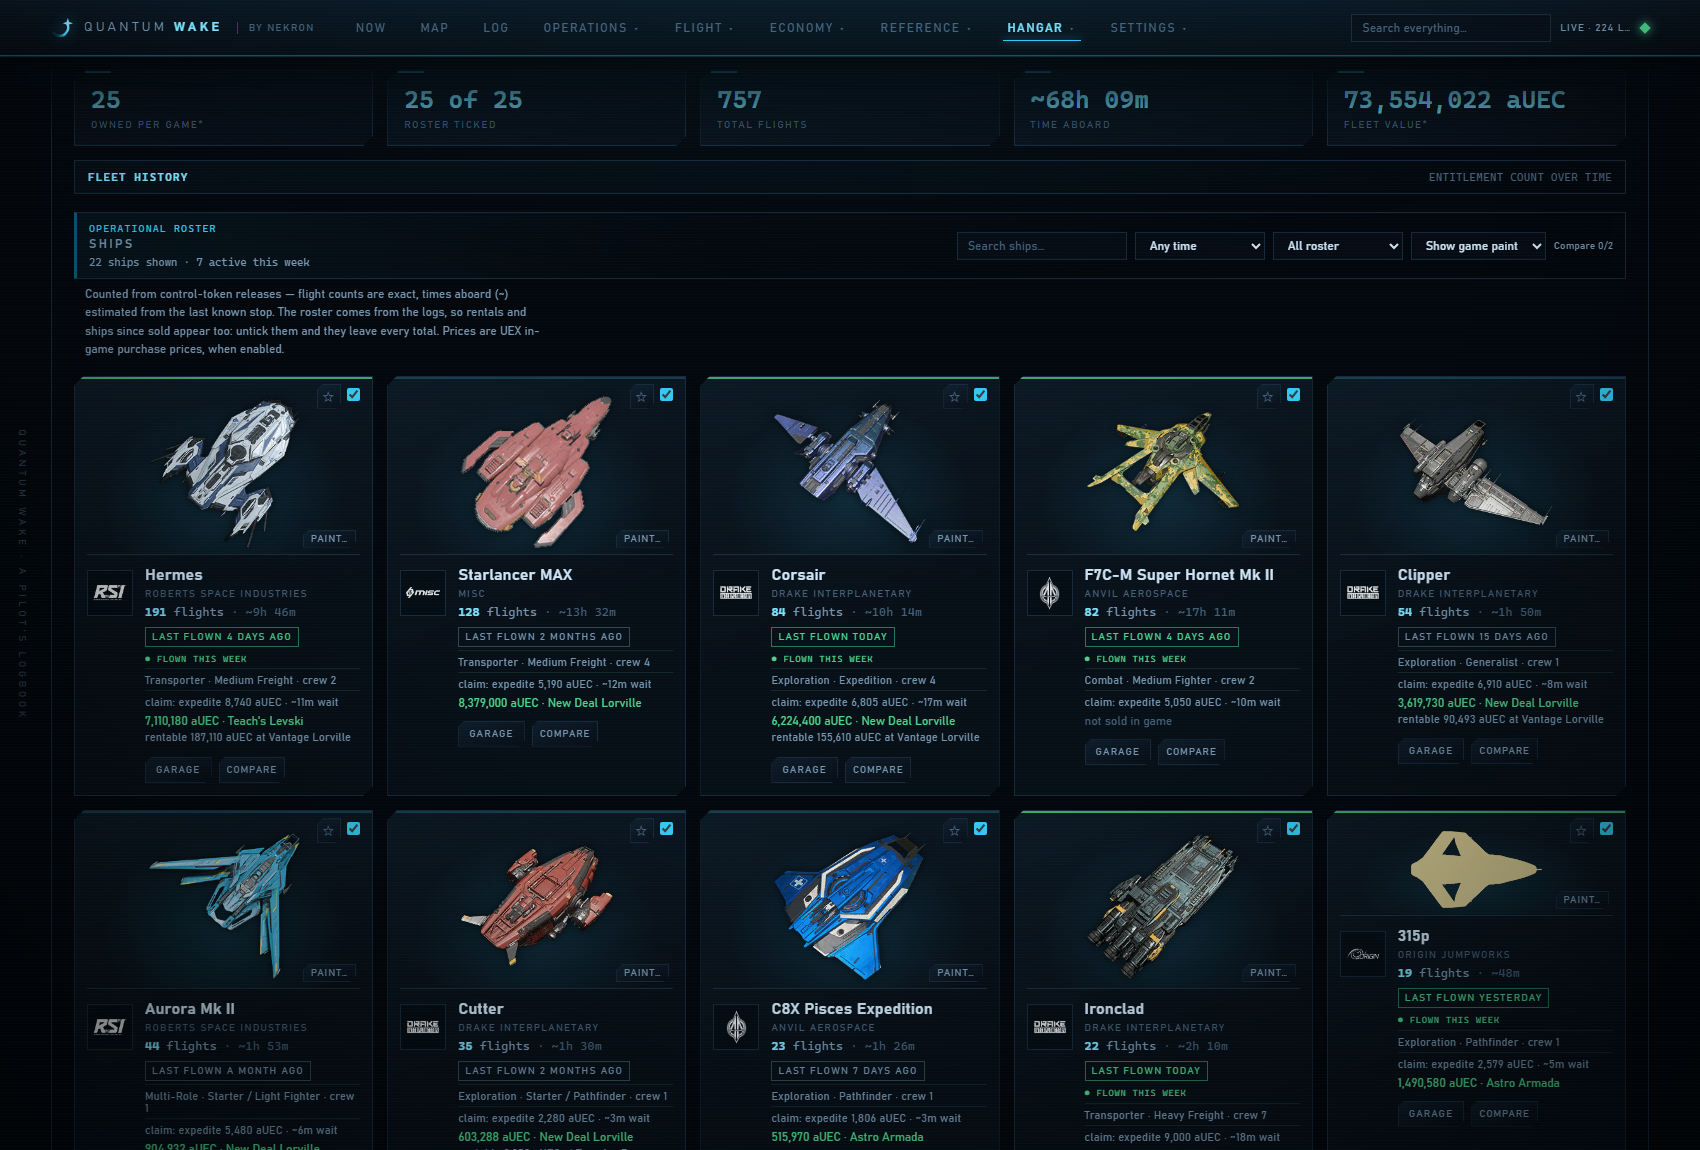
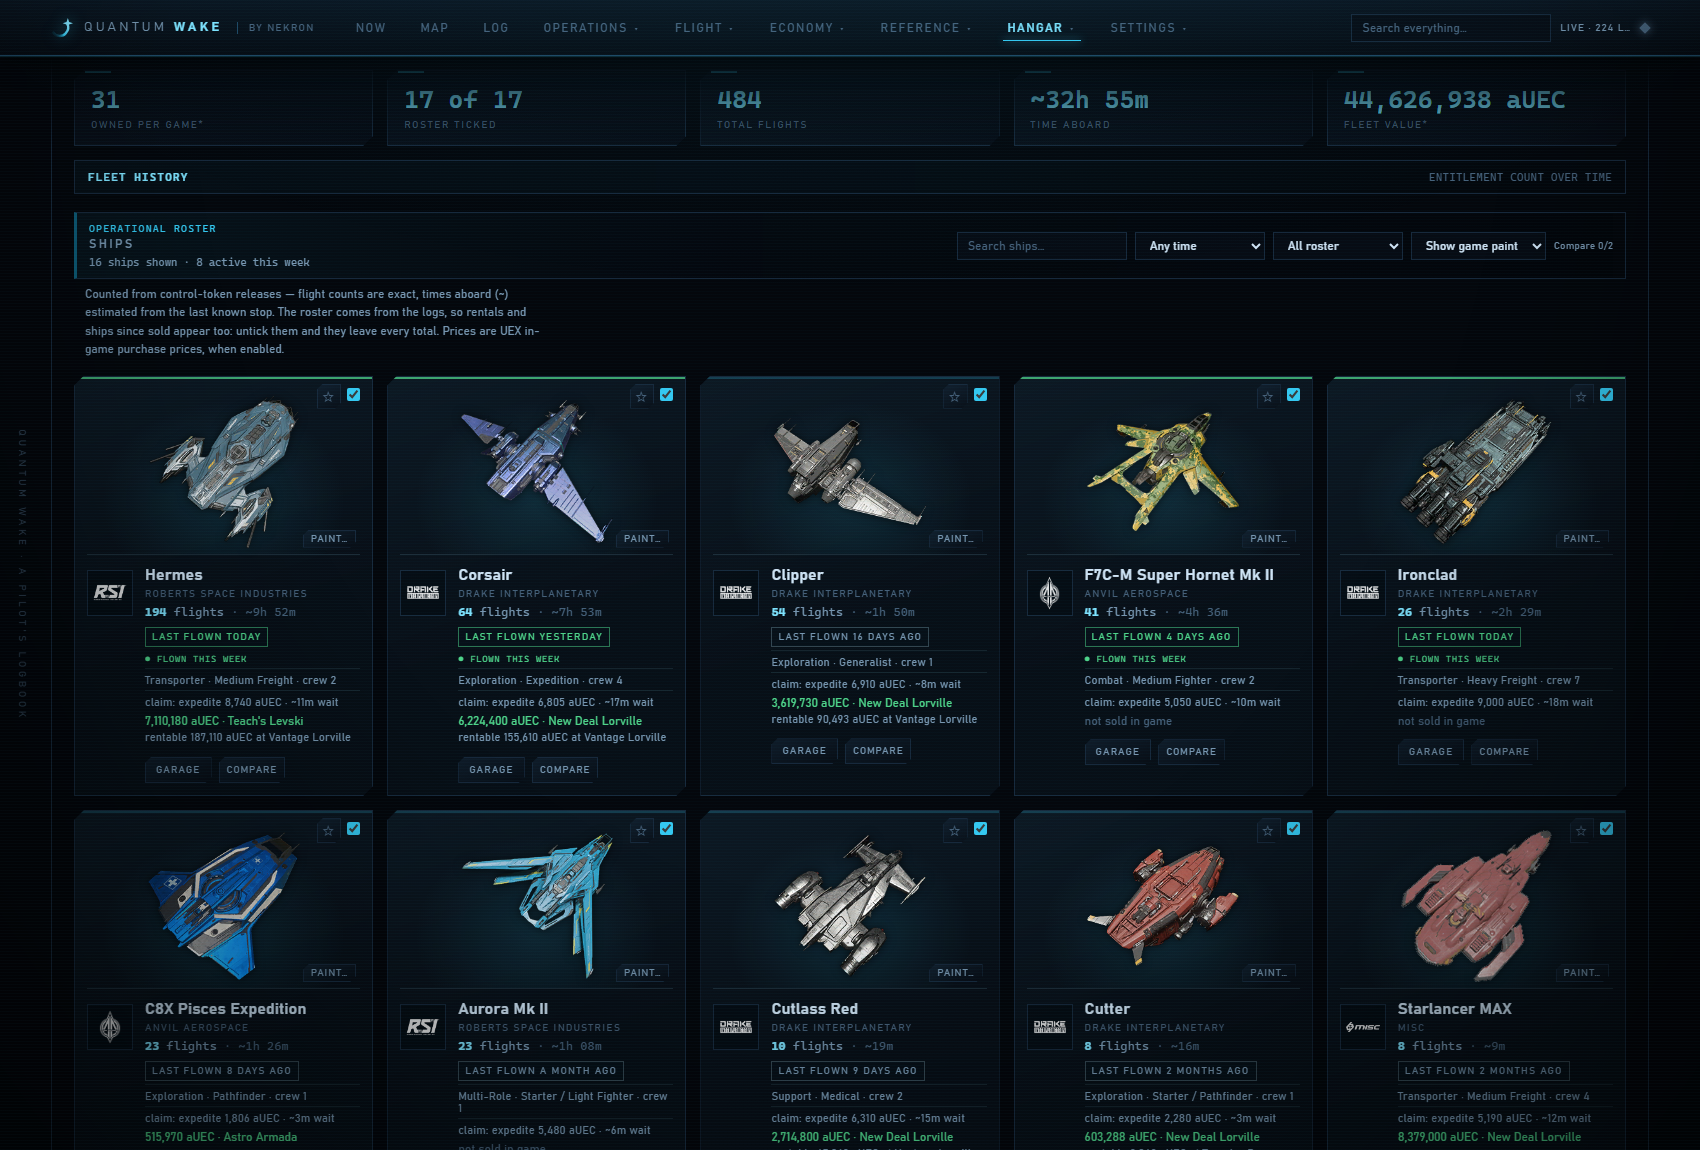
Retake the Fleet screenshot without the 315p
The 315p was the one card drawn as a flat silhouette: the game files hold
no paint render of any 300-series hull (958 paints, none for the 300i,
315p, 325a or 350r), so the app has nothing else to show. The new shot is
the real install's data on a copy, with only that card left out, so all
ten cards carry the game's own render.

diff --git a/README.md b/README.md
@@ -385,6 +385,10 @@ project and is not affiliated with or endorsed by Cloud Imperium Games.
 
 ## Release notes
 
+### 0.16.16
+
+- **A truer Fleet picture on the project page.** The README's Fleet screenshot showed the 315p as a flat silhouette — the game files hold no picture of any 300-series ship — so it now shows ten hulls the game does picture. The app itself is unchanged.
+
 ### 0.16.15
 
 **Keep dense workspaces clear at any width.** Map controls and place panels now fold into a phone-width layout; Routes, Contracts, and Market retain their row identity while scrolling. Map, Routes, Shopping, Contracts, Market, and Logbook also distinguish loading, an empty result, and an unavailable local source.
